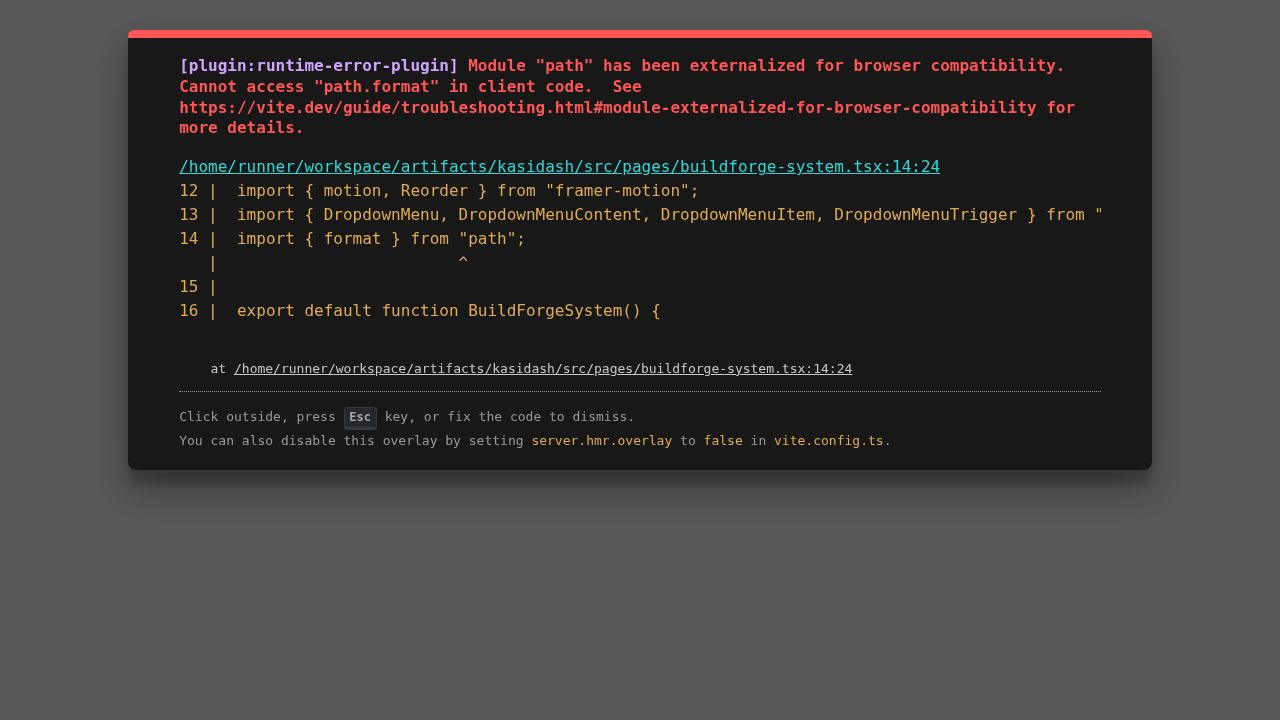
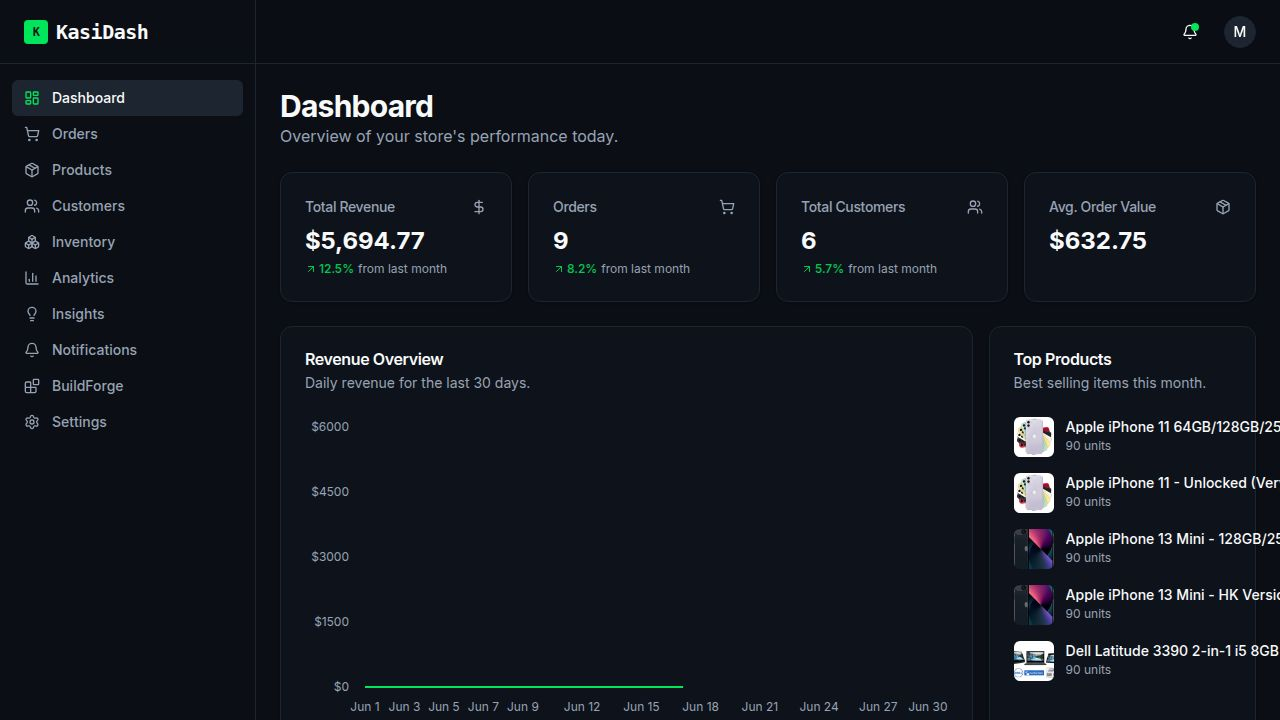
Add a button to easily visit the online store from the admin panel
Add a "Visit Store" button to the admin layout header and sidebar.

Replit-Commit-Author: Agent
Replit-Commit-Session-Id: 0b712849-73c3-4483-80c1-3393510a20fe
Replit-Commit-Checkpoint-Type: full_checkpoint
Replit-Commit-Event-Id: d776b921-72e2-48fd-bb99-e68f125dfab5
Replit-Commit-Screenshot-Url: https://storage.googleapis.com/screenshot-production-us-central1/a8a25997-af00-47c6-9ae5-ac996a9c979a/0b712849-73c3-4483-80c1-3393510a20fe/9RBRjzJ
Replit-Helium-Checkpoint-Created: true

diff --git a/artifacts/kasidash/src/components/layout.tsx b/artifacts/kasidash/src/components/layout.tsx
@@ -10,7 +10,9 @@ import {
   Bell, 
   Blocks, 
   Settings,
-  Menu
+  Menu,
+  Store,
+  ExternalLink
 } from "lucide-react";
 import { cn } from "@/lib/utils";
 import { useGetHealthCheck } from "@workspace/api-client-react"; // Or whatever the health check hook is named, actually it's useHealthCheck
@@ -66,6 +68,16 @@ export function Layout({ children }: { children: React.ReactNode }) {
           })}
         </div>
 
+        <div className="px-3 pb-3">
+          <Link href="/store">
+            <div className="flex items-center gap-2 px-3 py-2 rounded-md text-sm font-medium text-primary hover:bg-primary/10 transition-colors cursor-pointer border border-primary/20 bg-primary/5">
+              <Store className="w-4 h-4" />
+              Visit Store
+              <ExternalLink className="w-3 h-3 ml-auto opacity-60" />
+            </div>
+          </Link>
+        </div>
+
         <div className="p-4 border-t border-border text-xs text-muted-foreground flex items-center justify-between">
           <span>System Status</span>
           <span className="flex items-center gap-1.5">
@@ -85,7 +97,13 @@ export function Layout({ children }: { children: React.ReactNode }) {
             <span className="font-mono font-bold">KasiDash</span>
           </div>
           <div className="flex-1" />
-          <div className="flex items-center gap-4">
+          <div className="flex items-center gap-2">
+            <Link href="/store">
+              <Button variant="outline" size="sm" className="gap-1.5 text-primary border-primary/30 hover:bg-primary/10">
+                <Store className="w-4 h-4" />
+                <span className="hidden sm:inline">Visit Store</span>
+              </Button>
+            </Link>
             <Link href="/notifications">
               <Button variant="ghost" size="icon" className="relative">
                 <Bell className="w-4 h-4" />